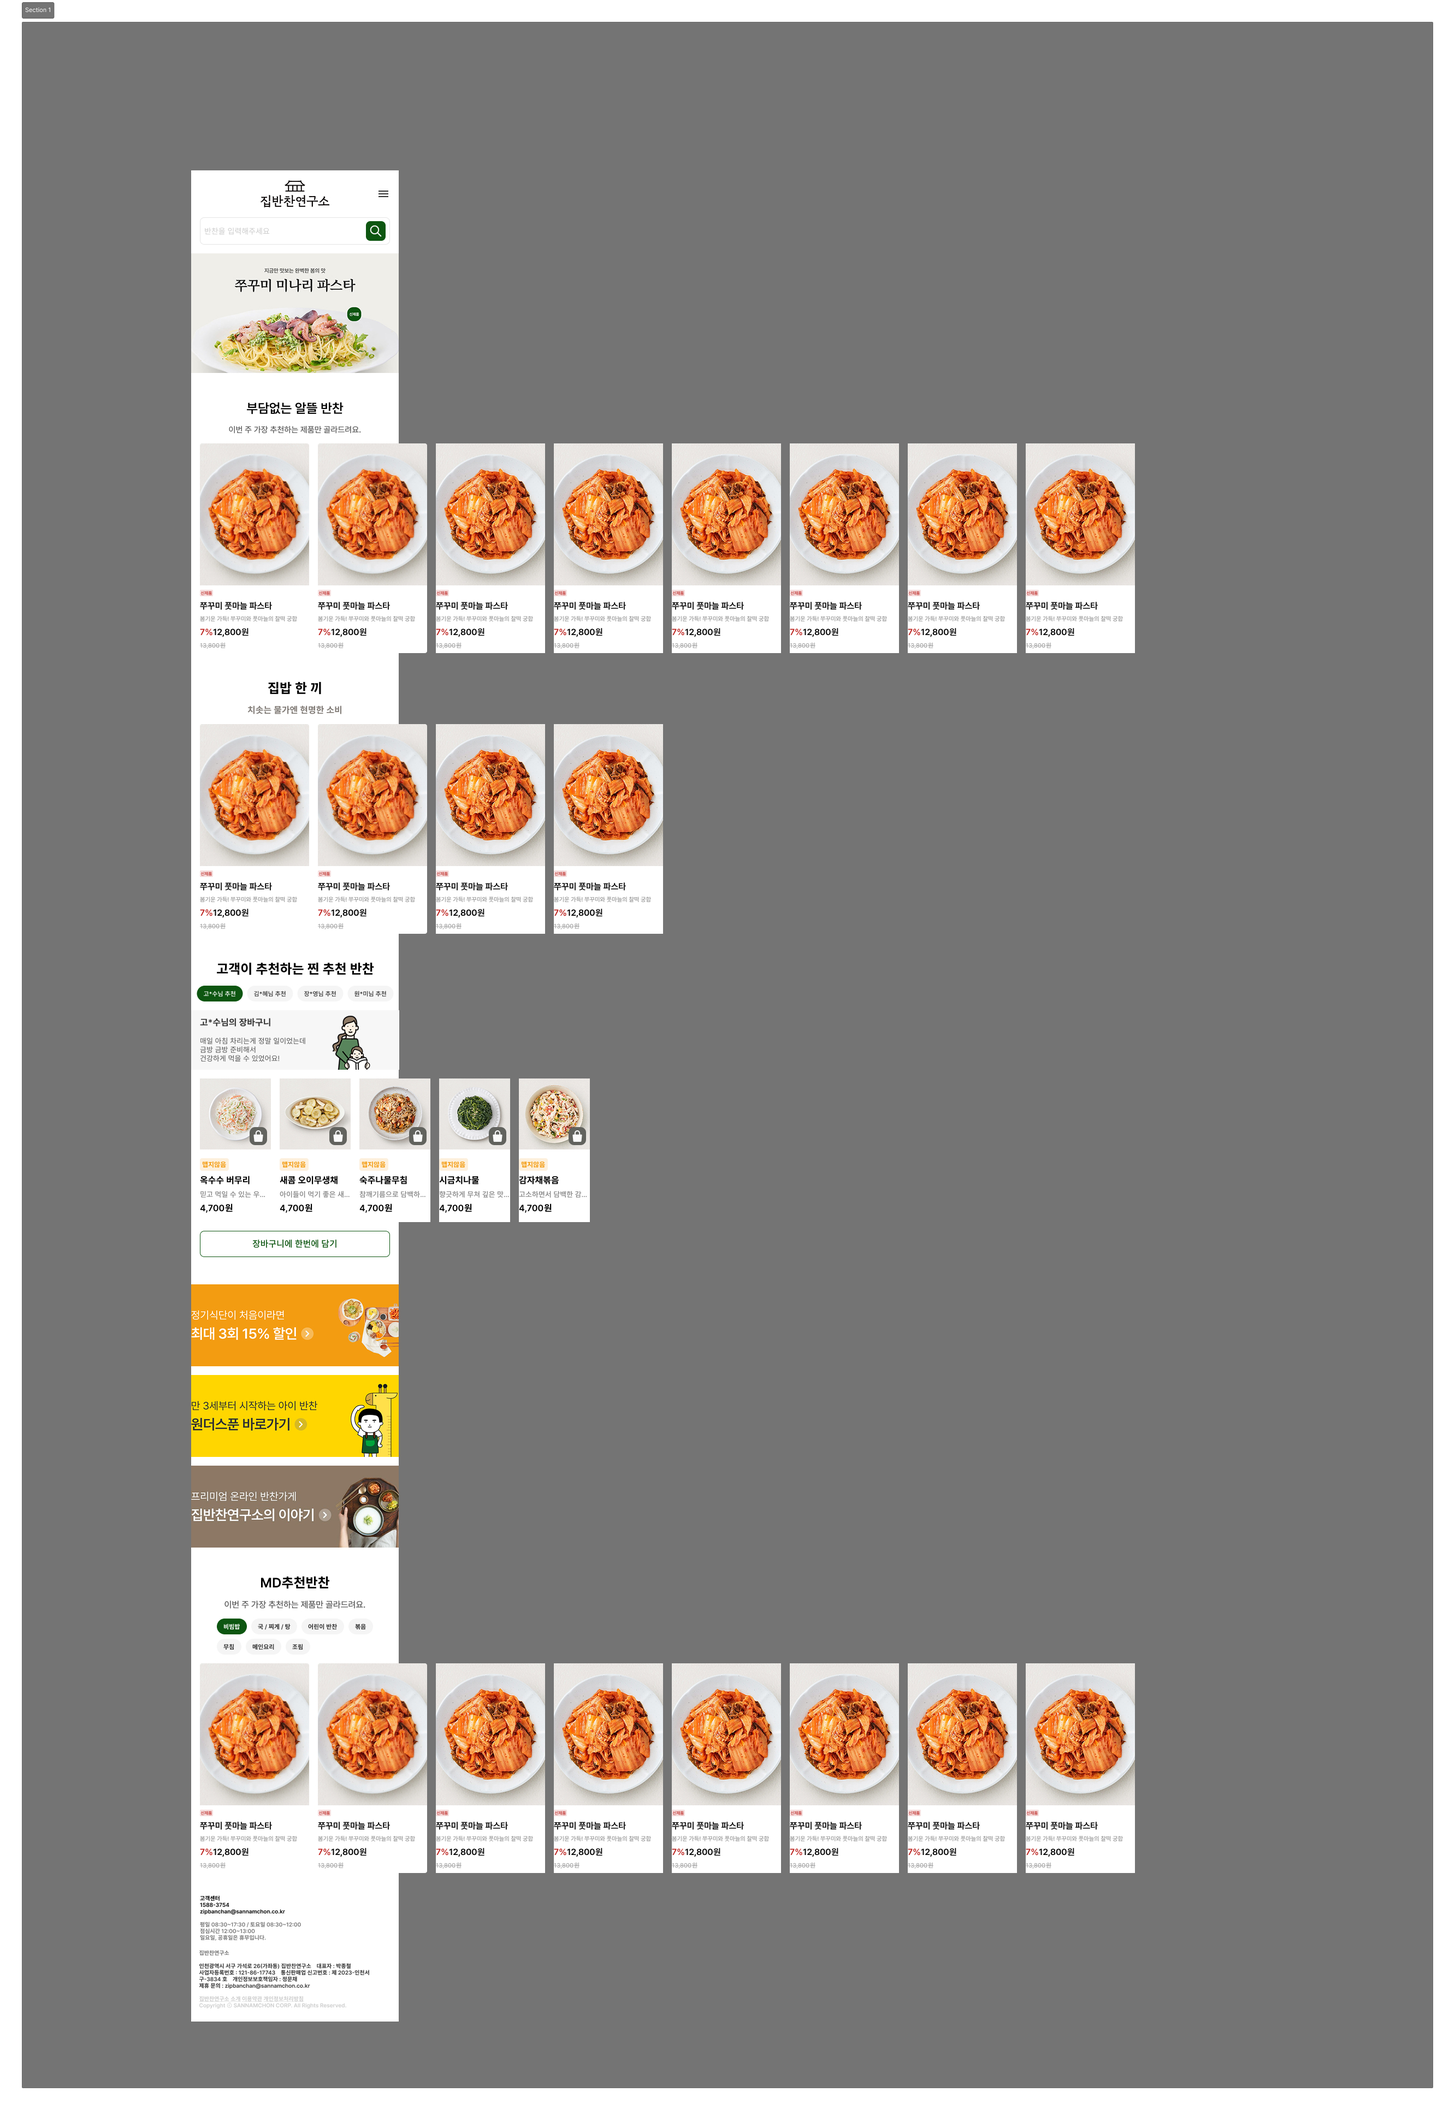
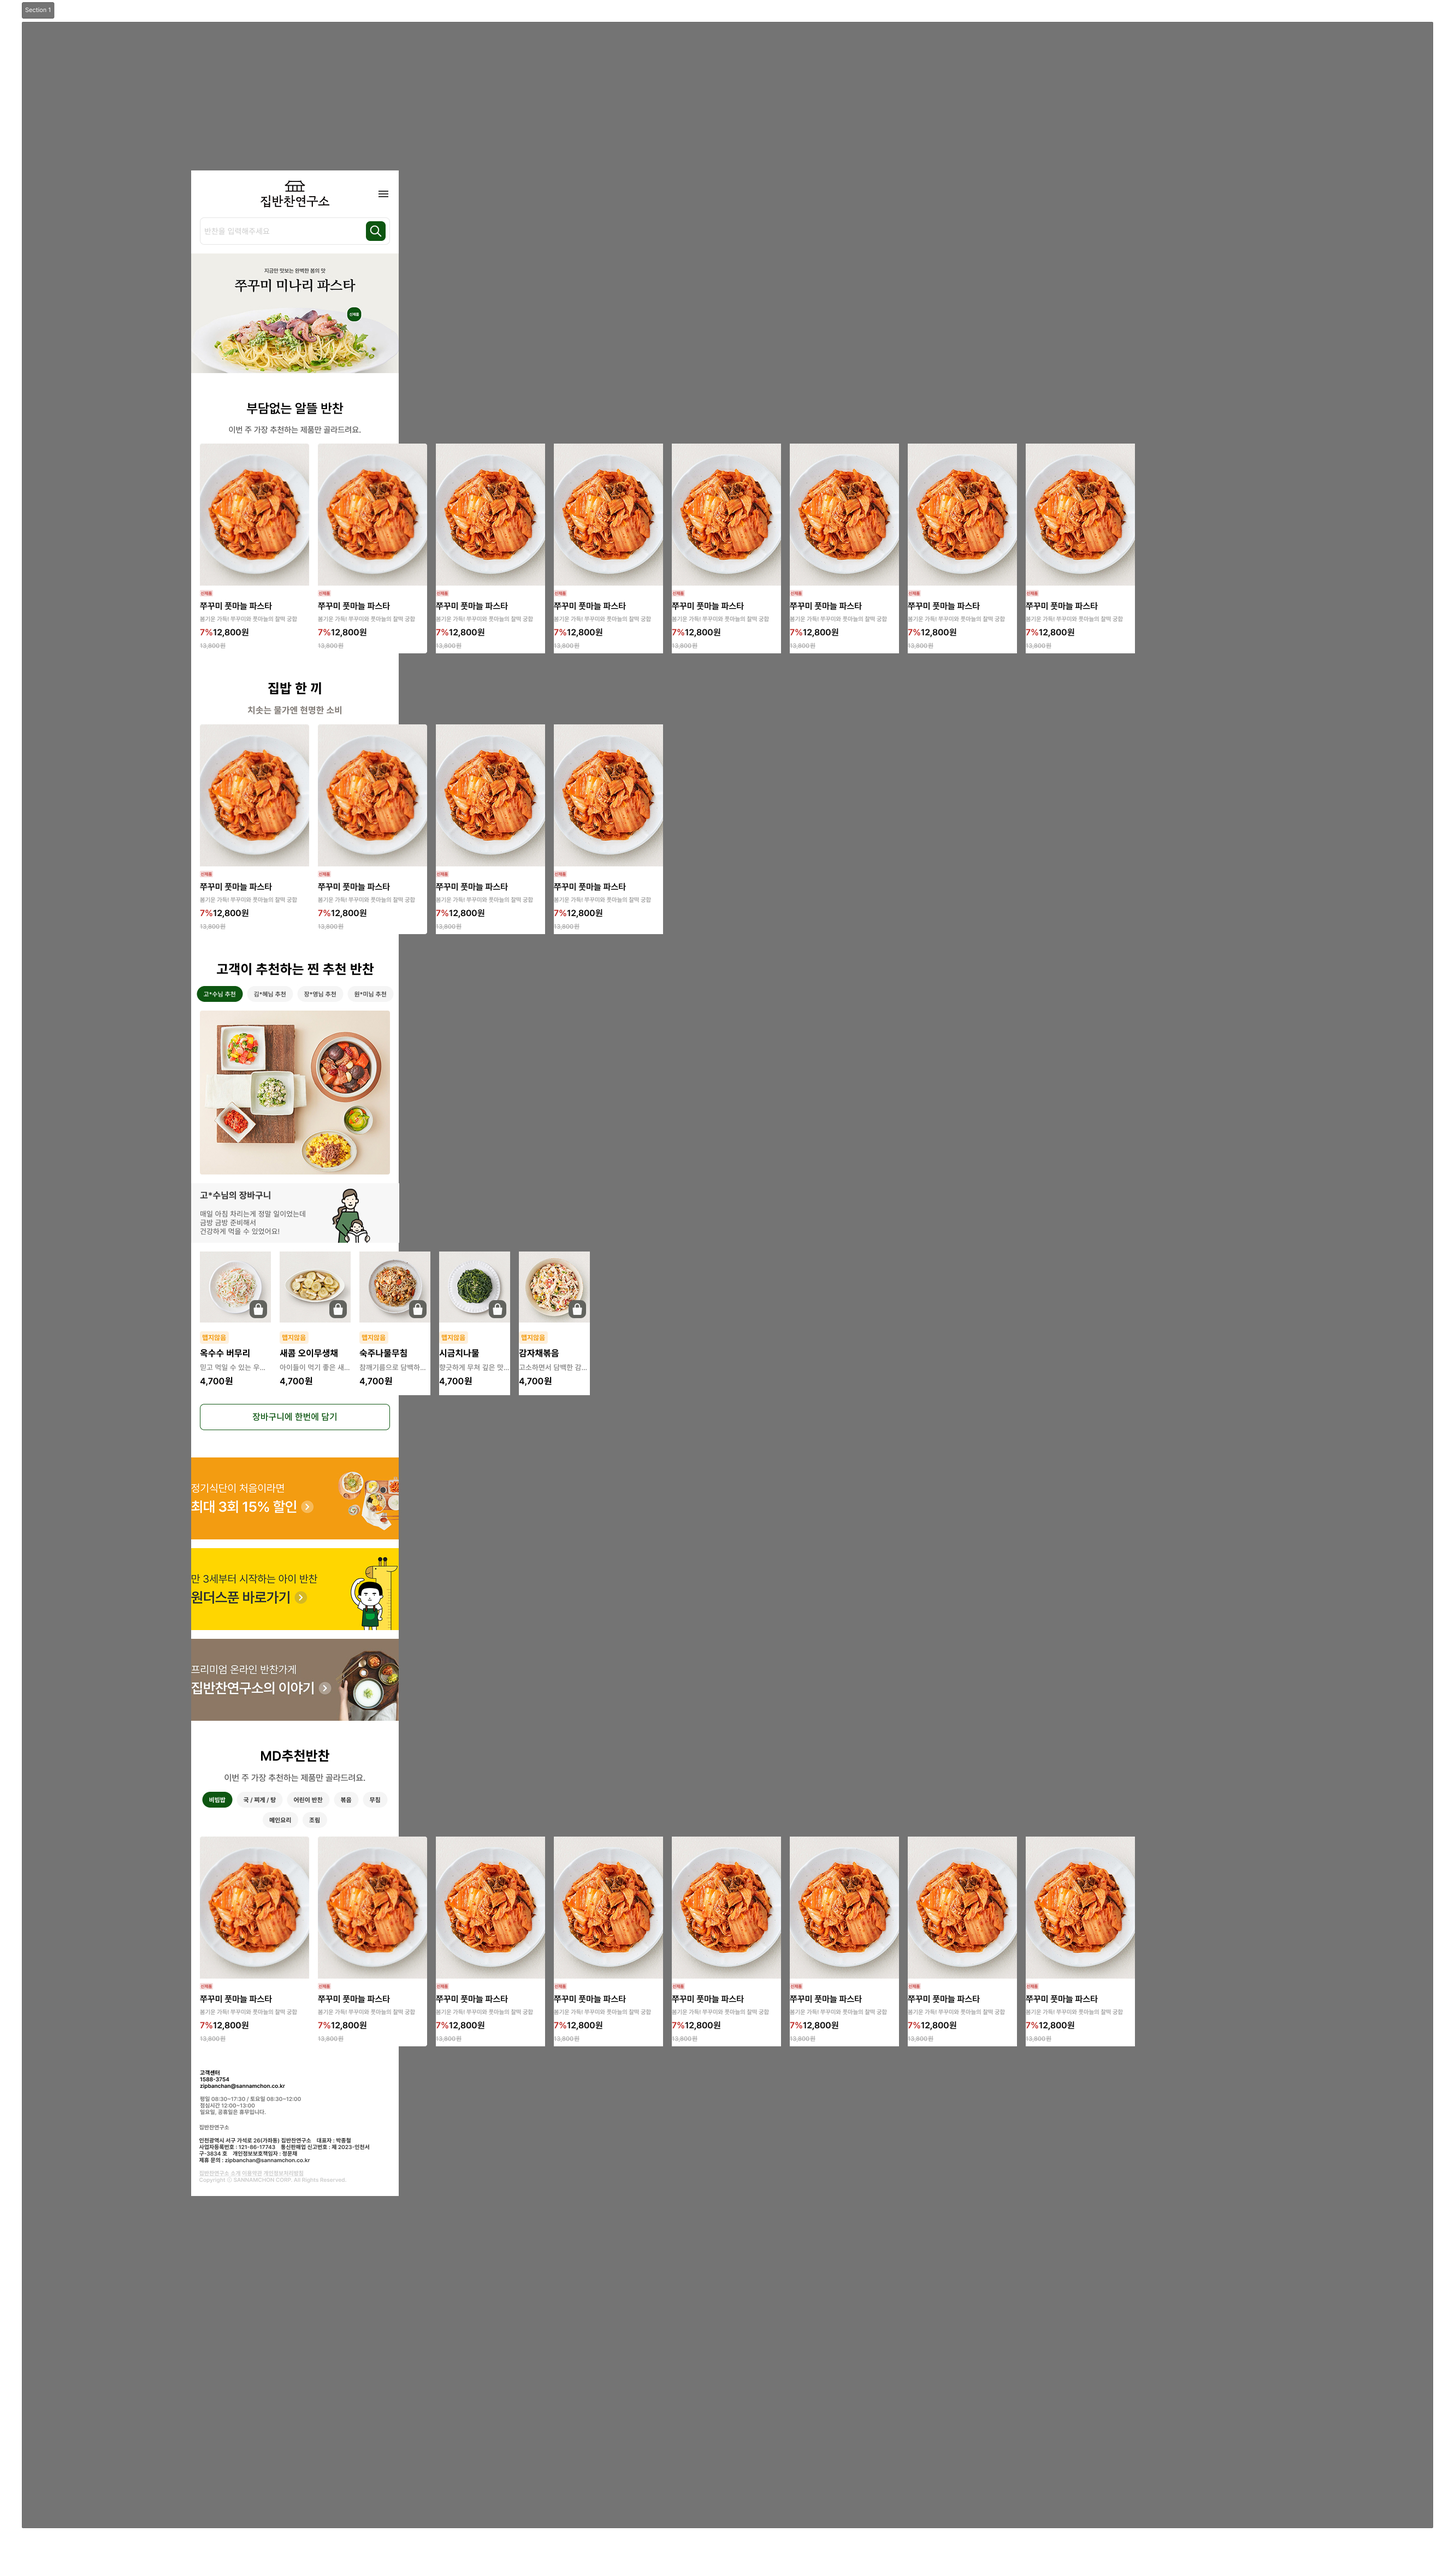
Add files via upload

Changed region(s): [[0.1246, 0.0621, 0.7789, 0.9627]]

diff --git a/shpmall/css/main.css b/shpmall/css/main.css
@@ -155,7 +155,7 @@ header {
 .h3 { background: #ff4da8; }
 
 /* banner */
-.banner {
+/* .banner {
   width: 100%;
   height: 450px;
   overflow: hidden;
@@ -166,6 +166,114 @@ header {
   height: 100%;
   object-fit: cover;
   display: block;
+} */
+     .main-visual {
+      width:100%;
+      max-width:1920px;
+      height:480px;
+      margin:0 auto;
+      position:relative;
+    }
+
+    .swiper {
+      width:100%;
+      height:100%;
+    }
+
+    .swiper-slide {
+      width:100%;
+      height:100%;
+    }
+
+    .swiper-slide img {
+      width:100%;
+      height:100%;
+      object-fit:cover;
+    }
+
+    /* 페이지 표시 (1/5) */
+    .custom-pagination {
+      position:absolute;
+      bottom:21px;
+      right:360px;
+      min-width:52px;
+      height:26px;
+      display:flex;
+      align-items:center;
+      justify-content:center;
+      background:rgba(120,113,107,0.78);
+      color:#fff;
+      padding:0 12px;
+      border-radius:13px;
+      font-size:14px;
+      font-weight:600;
+      line-height:1;
+      letter-spacing:0;
+      z-index:10;
+    }
+
+    /* 좌우 버튼 */
+.swiper-button-prev,
+.swiper-button-next {
+  width:40px !important;
+  height:40px !important;
+  margin-top:0 !important;
+  top:auto !important;
+  bottom:20px !important;
+  transform:none !important;
+  background:rgba(255,255,255,0.75);
+  border-radius:50% !important;
+  border:none;
+  box-shadow:none;
+  color:transparent;
+  z-index:10;
+}
+
+    .swiper-button-prev::after,
+.swiper-button-next::after {
+  content: none !important;
+}
+.swiper-button-prev::before,
+.swiper-button-next::before {
+  content:"";
+  display:block;
+  width:10px;
+  height:10px;
+  border-top:2px solid #9e9e9e;
+  border-right:2px solid #9e9e9e;
+  position:absolute;
+  top:50%;
+  left:50%;
+}
+
+.swiper-button-prev::before {
+  transform:translate(-35%, -50%) rotate(-135deg);
+}
+
+.swiper-button-next::before {
+  transform:translate(-65%, -50%) rotate(45deg);
+}
+
+    .swiper-button-prev::after {
+      transform:translate(-35%, -50%) rotate(-135deg);
+    }
+
+    .swiper-button-next::after {
+      transform:translate(-65%, -50%) rotate(45deg);
+    }
+
+   .swiper-button-prev {
+  left:360px !important;
+  right:auto !important;
+}
+    .swiper-button-prev,
+.swiper-button-next {
+  background-image: none !important;
+}
+
+.swiper-button-next {
+  left:408px !important;
+  right:auto !important;
 }
 
 /* main */

diff --git a/shpmall/index3.html b/shpmall/index3.html
@@ -7,6 +7,7 @@
   <link rel="stylesheet" href="./css/reset.css">
   <link rel="stylesheet" href="./css/common.css">
   <link rel="stylesheet" href="./css/main.css">
+  <link rel="stylesheet" href="https://cdn.jsdelivr.net/npm/swiper@11/swiper-bundle.min.css" />
   
 </head>
 <body>
@@ -99,9 +100,31 @@
 
 <div class="mobile-drawer-overlay"></div>
 
-    <section class="banner">
+    <!-- <section class="banner">
       <img src="./img/imgi_34_banner_e2141b90313ecebe50b44307aaff9170.jpg" alt="배너">
-    </section>
+    </section> -->
+    <div class="main-visual">
+    <div class="swiper mySwiper">
+      <div class="swiper-wrapper">
+
+        <!-- 슬라이드 5개 (이미지 교체해서 사용) -->
+        <div class="swiper-slide"><img src="./img/banner1.png"></div>
+        <div class="swiper-slide"><img src="./img/banner2 (2).png"></div>
+        <div class="swiper-slide"><img src="./img/banner3.png"></div>
+        <div class="swiper-slide"><img src="./img/banner4.png"></div>
+        <div class="swiper-slide"><img src="./img/banner5.png"></div>
+
+      </div>
+
+      <!-- 버튼 -->
+      <div class="swiper-button-prev"></div>
+      <div class="swiper-button-next"></div>
+
+      <!-- 페이지 -->
+      <div class="custom-pagination" id="pageCounter">1 / 5</div>
+
+    </div>
+  </div>
 
     <main>
       <div class="box1">
@@ -514,6 +537,29 @@
     </footer>
 
   </div>
+  <script src="https://cdn.jsdelivr.net/npm/swiper@11/swiper-bundle.min.js"></script>
+  <script>
+    const swiper = new Swiper(".mySwiper", {
+      loop: true,
+      navigation: {
+        nextEl: ".swiper-button-next",
+        prevEl: ".swiper-button-prev",
+      },
+      on: {
+        slideChange: function () {
+          updatePagination(this);
+        }
+      }
+    });
+
+    function updatePagination(swiper) {
+      const total = 5;
+      let current = swiper.realIndex + 1;
+      document.getElementById("pageCounter").innerText = current + " / " + total;
+    }
+
+    updatePagination(swiper);
+  </script>
 <script>
 document.addEventListener('DOMContentLoaded', function () {
   function enableDragScroll(selector) {
